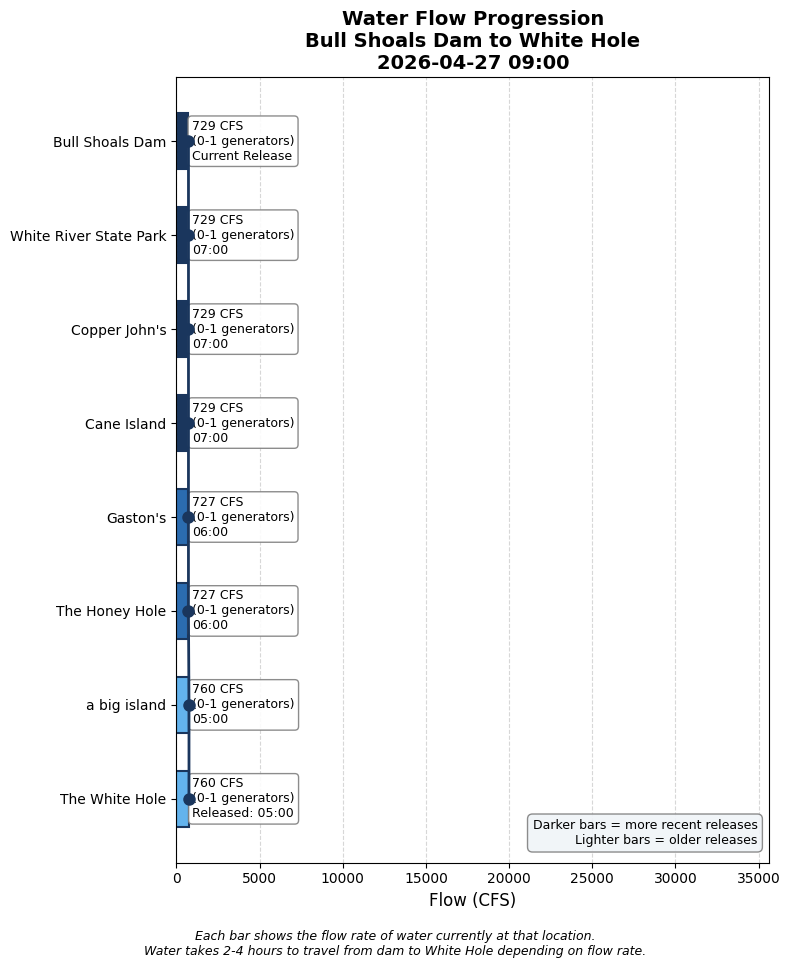
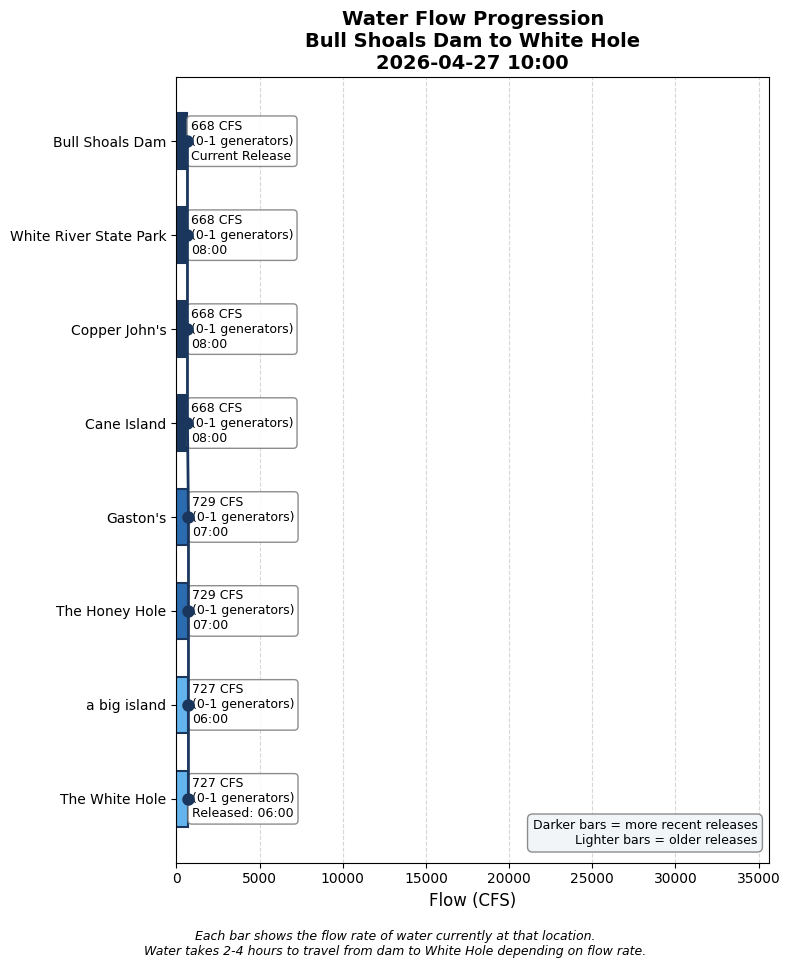
Update water conditions 2026-04-27 10:00

diff --git a/white_hole_conditions.html b/white_hole_conditions.html
@@ -3,7 +3,7 @@
 <head>
     <meta charset="UTF-8">
     <meta name="viewport" content="width=device-width, initial-scale=1.0">
-    <title>White Hole Conditions - 2026-04-27 09:00</title>
+    <title>White Hole Conditions - 2026-04-27 10:00</title>
     <style>
         body {
             font-family: -apple-system, BlinkMacSystemFont, 'Segoe UI', Roboto, sans-serif;
@@ -148,7 +148,7 @@
 </head>
 <body>
     <h1>White Hole Current Conditions</h1>
-    <p class="subtitle">Monday, April 27, 2026 at 09:00 AM</p>
+    <p class="subtitle">Monday, April 27, 2026 at 10:00 AM</p>
 
     <!-- HEADLINE BANNER -->
     <div class="headline-banner">
@@ -160,7 +160,7 @@
     <!-- CURRENT CONDITIONS -->
     <div class="current-conditions">
         <h3>Current Conditions at White Hole</h3>
-        <div class="flow-display">760 CFS</div>
+        <div class="flow-display">727 CFS</div>
         <div class="generator-display">Equivalent to 0-1 generators</div>
         <div class="condition-pills">
             <span class="pill wading">Excellent Wading</span>
@@ -189,6 +189,14 @@
                 <tr><td colspan="3" style="padding: 8px 10px; font-size: 0.8em; font-weight: bold; color: #6b46c1; text-transform: uppercase; letter-spacing: 0.05em; background-color: #f3e8ff;">Scheduled (SWPA forecast)</td></tr>
                 
                     <tr style="background-color: #faf5ff; ">
+                        <td style="padding: 10px; font-weight: bold;">1 PM</td>
+                        <td style="padding: 10px;">723 CFS<br><small style="color: #666;">(0-1 generators: 473 generation + 250 min flow)</small></td>
+                        <td style="padding: 10px;">~4:44 PM
+                            <span style="display: inline-block; margin-left: 6px; padding: 2px 8px; border-radius: 12px; font-size: 0.8em; background-color: #d1fae5; color: #065f46;">Excellent Wading</span>
+                        </td>
+                    </tr>
+                
+                    <tr style="background-color: #faf5ff; ">
                         <td style="padding: 10px; font-weight: bold;">12 PM</td>
                         <td style="padding: 10px;">723 CFS<br><small style="color: #666;">(0-1 generators: 473 generation + 250 min flow)</small></td>
                         <td style="padding: 10px;">~3:44 PM
@@ -212,39 +220,31 @@
                         </td>
                     </tr>
                 
-                    <tr style="background-color: #faf5ff; ">
-                        <td style="padding: 10px; font-weight: bold;">9 AM</td>
-                        <td style="padding: 10px;">723 CFS<br><small style="color: #666;">(0-1 generators: 473 generation + 250 min flow)</small></td>
-                        <td style="padding: 10px;">~12:44 PM
-                            <span style="display: inline-block; margin-left: 6px; padding: 2px 8px; border-radius: 12px; font-size: 0.8em; background-color: #d1fae5; color: #065f46;">Excellent Wading</span>
-                        </td>
-                    </tr>
-                
             
                     
                 <tr><td colspan="3" style="padding: 8px 10px; font-size: 0.8em; font-weight: bold; color: #2b6cb0; text-transform: uppercase; letter-spacing: 0.05em; background-color: #ebf8ff;">Actual (dam readings)</td></tr>
                 
                     <tr style="background-color: #ebf8ff;">
-                        <td style="padding: 10px; font-weight: bold;">7:00 AM</td>
-                        <td style="padding: 10px;">729 CFS<br><small style="color: #666;">(0-1 generators)</small></td>
-                        <td style="padding: 10px;"><span style="color: #2b6cb0;">→ Arrives ~10:44 AM (in 103 min)</span></td>
+                        <td style="padding: 10px; font-weight: bold;">8:00 AM</td>
+                        <td style="padding: 10px;">668 CFS<br><small style="color: #666;">(0-1 generators)</small></td>
+                        <td style="padding: 10px;"><span style="color: #2b6cb0;">→ Arrives ~11:44 AM (in 103 min)</span></td>
                     </tr>
                 
                     <tr style="background-color: #ebf8ff;">
-                        <td style="padding: 10px; font-weight: bold;">6:00 AM</td>
-                        <td style="padding: 10px;">727 CFS<br><small style="color: #666;">(0-1 generators)</small></td>
-                        <td style="padding: 10px;"><span style="color: #2b6cb0;">→ Arrives ~9:44 AM (in 43 min)</span></td>
+                        <td style="padding: 10px; font-weight: bold;">7:00 AM</td>
+                        <td style="padding: 10px;">729 CFS<br><small style="color: #666;">(0-1 generators)</small></td>
+                        <td style="padding: 10px;"><span style="color: #2b6cb0;">→ Arrives ~10:44 AM (in 43 min)</span></td>
                     </tr>
                 
                     <tr style="background-color: #e6fffa;">
-                        <td style="padding: 10px; font-weight: bold;">5:00 AM</td>
-                        <td style="padding: 10px;">760 CFS<br><small style="color: #666;">(0-1 generators)</small></td>
+                        <td style="padding: 10px; font-weight: bold;">6:00 AM</td>
+                        <td style="padding: 10px;">727 CFS<br><small style="color: #666;">(0-1 generators)</small></td>
                         <td style="padding: 10px;"><span style="color: #319795; font-weight: bold;">← AT WHITE HOLE NOW</span></td>
                     </tr>
                 
                     <tr style="">
-                        <td style="padding: 10px; font-weight: bold;">2:00 AM</td>
-                        <td style="padding: 10px;">748 CFS<br><small style="color: #666;">(0-1 generators)</small></td>
+                        <td style="padding: 10px; font-weight: bold;">3:00 AM</td>
+                        <td style="padding: 10px;">767 CFS<br><small style="color: #666;">(0-1 generators)</small></td>
                         <td style="padding: 10px;"><span style="color: #718096;">passed</span></td>
                     </tr>
                 
@@ -274,9 +274,9 @@
         </summary>
         <div style="padding: 15px;">
             <ul>
-                <li>Latest dam reading: 729 CFS at 2026-04-27 07:00</li>
+                <li>Latest dam reading: 668 CFS at 2026-04-27 08:00</li>
                 <li>Travel time to White Hole: 3.7 hours at current flow</li>
-                <li>White Hole conditions based on dam reading from: 2026-04-27 05:00</li>
+                <li>White Hole conditions based on dam reading from: 2026-04-27 06:00</li>
             </ul>
         </div>
     </details>
@@ -298,6 +298,13 @@
                     </thead>
                     <tbody>
                         
+                <tr style="border-bottom: 1px solid #eee;">
+                    <td style="padding: 8px;">2026-04-27 08:00</td>
+                    <td style="padding: 8px; text-align: right;">668</td>
+                    <td style="padding: 8px; text-align: right;">0.2</td>
+                    <td style="padding: 8px; text-align: right;">3.7</td>
+                </tr>
+                
                 <tr style="border-bottom: 1px solid #eee;">
                     <td style="padding: 8px;">2026-04-27 07:00</td>
                     <td style="padding: 8px; text-align: right;">729</td>
@@ -354,13 +361,6 @@
                     <td style="padding: 8px; text-align: right;">3.7</td>
                 </tr>
                 
-                <tr style="border-bottom: 1px solid #eee;">
-                    <td style="padding: 8px;">2026-04-26 22:00</td>
-                    <td style="padding: 8px; text-align: right;">724</td>
-                    <td style="padding: 8px; text-align: right;">0.2</td>
-                    <td style="padding: 8px; text-align: right;">3.7</td>
-                </tr>
-                
                     </tbody>
                 </table>
             </div>
@@ -368,7 +368,7 @@
         
 
     <div class="timestamp">
-        Data retrieved and processed on 2026-04-27 09:00:08
+        Data retrieved and processed on 2026-04-27 10:00:11
     </div>
 </body>
 </html>
